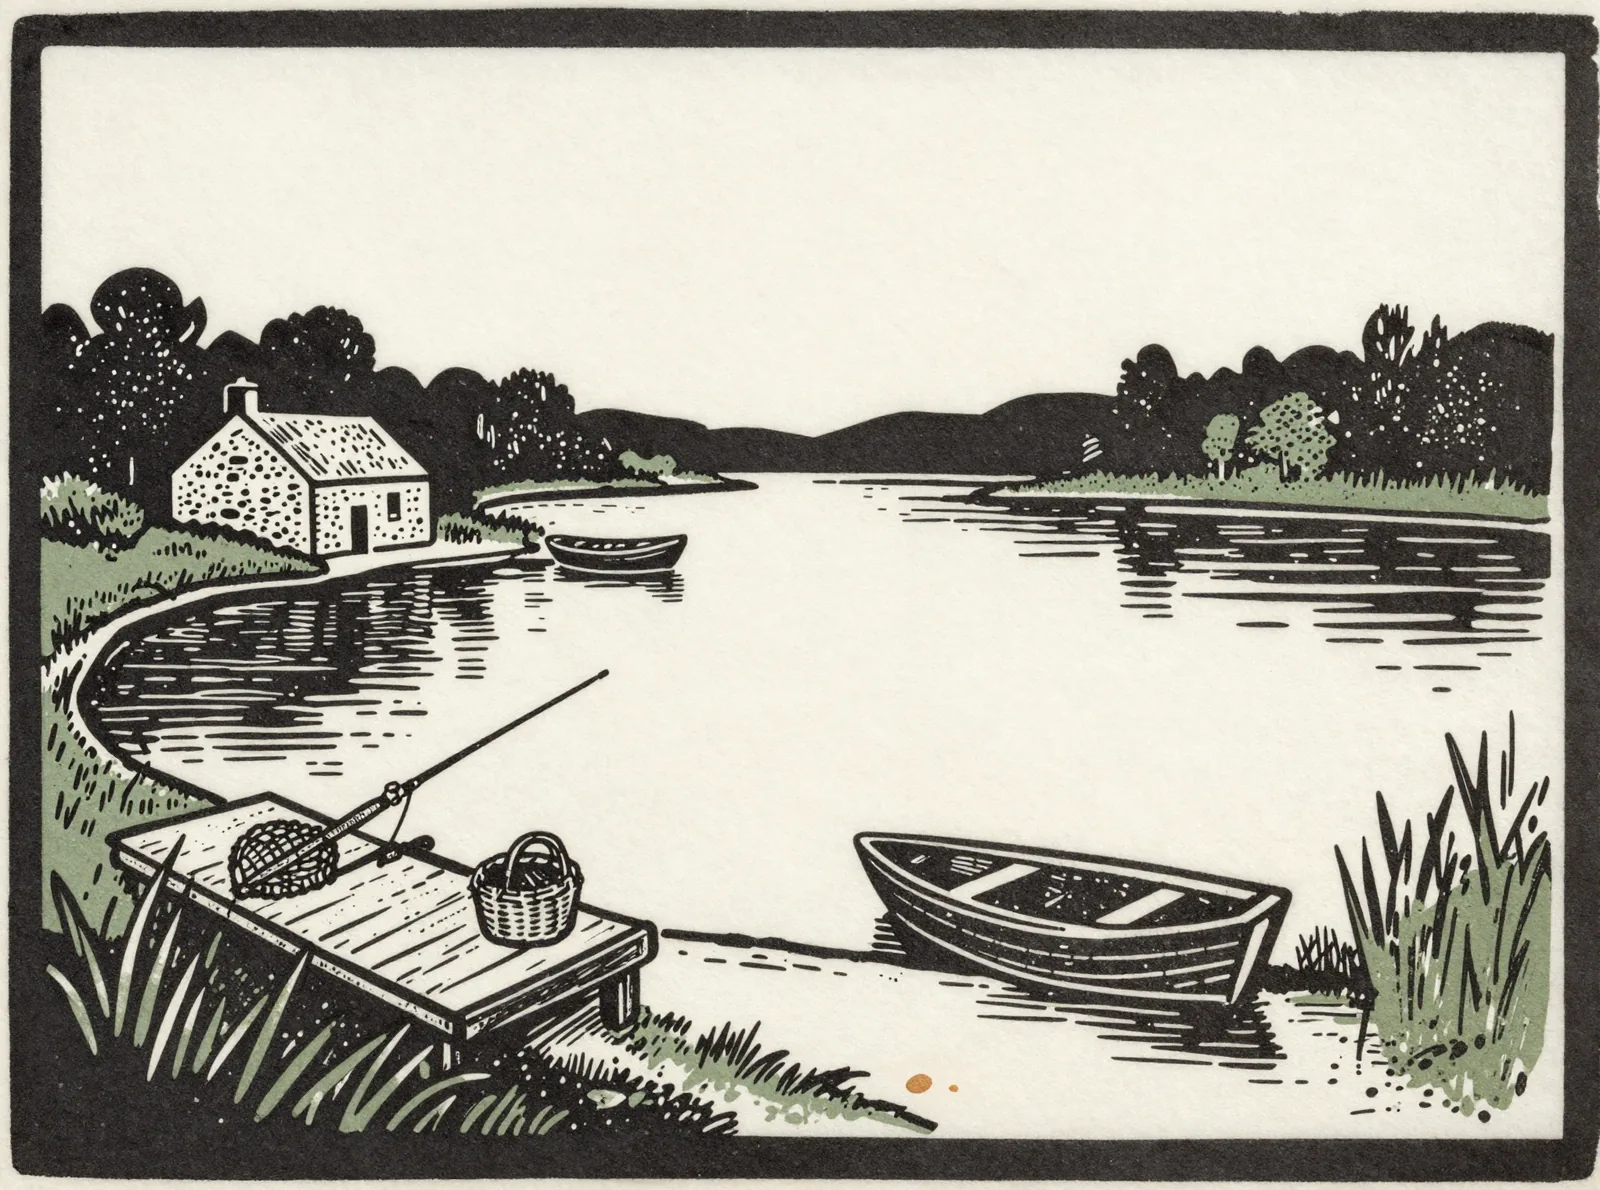
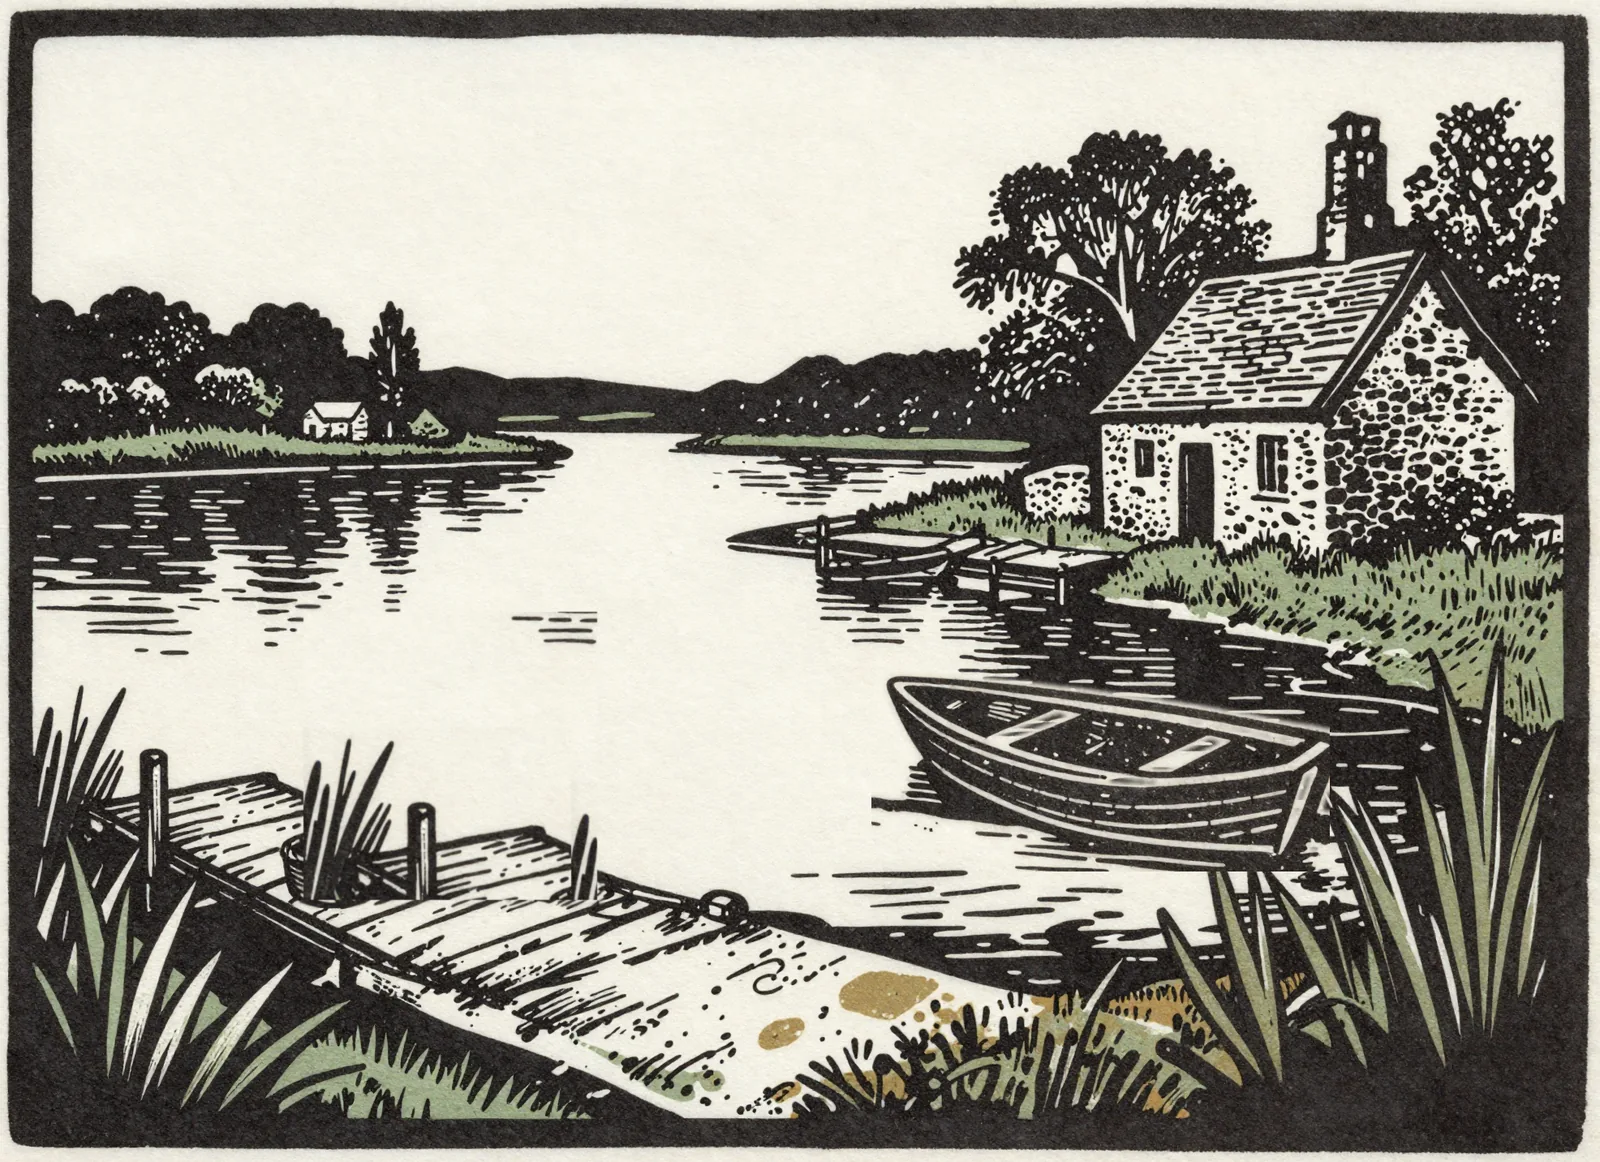
feat(design): the priest in the garden; the lake keeps its composition
Two founder keys. The hill print (a rough-draft leftover whose 'city
on a hill' allusion the copy never explained) retires; in its place,
made as a sacred image on his word: a priest kneeling in the community
garden at dawn, planting with his own hands, spade in the earth, the
parish church behind him. The deed before the word, pictured.

The lakes print returns to the composition he chose; only the boat
moved. Plank-cloning cleared the beached hull and a silhouette-masked
splice sets the sibling roll's boat on the water with a true waterline.

diff --git a/templates/illustrations/_lakes.html b/templates/illustrations/_lakes.html
@@ -1,10 +1,10 @@
 {% comment %}Parish Linocut — original UMI illustration. The first lake — water
-   close to home. A stone cottage at the shore, a jetty with rod and
-   creel, a rowboat on the water, and the lake running on toward more beyond. The lakes
+   close to home. A stone cottage at the shore, the jetty with its creel,
+   a rowboat on the water, and the lake running on toward more beyond. The lakes
    named, finally pictured. Two-plate relief print in the Commons palette
    (stone paper, espresso ink, evergreen + bronze), generated suite
    2026-07-14. Decorative.{% endcomment %}
 {% load static %}
 <img src="{% static 'img/scenes/lakes.webp' %}" data-scene="lakes" alt=""
-     class="{{ class|default:'w-full h-auto' }}" width="1600" height="1190"
+     class="{{ class|default:'w-full h-auto' }}" width="1600" height="1162"
      decoding="async">

diff --git a/templates/illustrations/_priest.html b/templates/illustrations/_priest.html
@@ -1,0 +1,10 @@
+{% comment %}Parish Linocut — original UMI illustration, by the founder's key
+   and made as a sacred image. The deed before the word: a priest kneels in
+   the community garden at dawn, planting a seedling with his own hands, the
+   spade standing in the earth and the parish church behind him. Work as
+   prayer. Two-plate relief print in the Commons palette, generated suite
+   2026-07-14. Decorative.{% endcomment %}
+{% load static %}
+<img src="{% static 'img/scenes/priest.webp' %}" data-scene="priest" alt=""
+     class="{{ class|default:'w-full h-auto' }}" width="1600" height="1180"
+     decoding="async">

diff --git a/templates/pages/beliefs.html b/templates/pages/beliefs.html
@@ -119,7 +119,7 @@
   <section class="umi-section border-b border-[var(--umi-border)]" data-rise>
     <div class="grid grid-cols-1 lg:grid-cols-12 gap-8 items-end mb-2">
       <div class="lg:col-span-7"></div>
-      <div class="lg:col-span-5"><div class="umi-plate p-2">{% include "illustrations/_hill.html" with class="w-full h-auto" %}</div></div>
+      <div class="lg:col-span-5"><div class="umi-plate p-2">{% include "illustrations/_priest.html" with class="w-full h-auto" %}</div></div>
     </div>
     <div class="flex items-center gap-3 flex-wrap">
       <span class="umi-kicker">Where we're going</span>

diff --git a/STATE.md b/STATE.md
@@ -90,7 +90,7 @@
 Do not assume/reintroduce: Stripe billing, Twilio SMS, Chart.js dashboards, blog, scheduled email digests (only an `email_digest` config key), account-deletion flow, **in-app chat** (deliberate — see Protocol section), REST/DRF API (federation speaks its own signed endpoints). (Service worker exists **only** for casework offline capture — not a site-wide PWA.)
 
 ## Repo state / open items
-- **In-flight (`fix/beliefs-heart`, 2026-07-14):** beliefs opening rebuilt in the Our-Story register on his flag ("this whole part sucks… completely different tone") — v3 on his second pass: concrete-first masthead ("This board is a lake, the first of many."), lake defined in one sentence, sayings resolved to two plain clauses, widow/doorway litany scratched entirely ("A conviction you can act on."), realism scan of ALL prints on his flag (spring had reeds-from-rock; exchange had a paw-hand; carrying had a fake AI signature) — exchange re-rolled clean, carrying signature patched out, spring retired unplaced, NEW lakes print (cottage/jetty/first-of-many) matches v3 copy. Product name unified to Reciprocal Aid Network everywhere user-facing (his canon: UMI = infrastructure, Lake 0 at heart); chapter cards de-dashed; header fixed at 390 for the longer name (output.css recompiled). Gate pending, then his standing merge key.
+- **In-flight (`fix/beliefs-heart`, 2026-07-14):** beliefs opening rebuilt in the Our-Story register on his flag ("this whole part sucks… completely different tone") — v3 on his second pass: concrete-first masthead ("This board is a lake, the first of many."), lake defined in one sentence, sayings resolved to two plain clauses, widow/doorway litany scratched entirely ("A conviction you can act on."), realism scan of ALL prints on his flag (spring had reeds-from-rock; exchange had a paw-hand; carrying had a fake AI signature) — exchange re-rolled clean, carrying signature patched out, spring retired unplaced, NEW lakes print (cottage/jetty/first-of-many) matches v3 copy. Product name unified to Reciprocal Aid Network everywhere user-facing (his canon: UMI = infrastructure, Lake 0 at heart); chapter cards de-dashed; header fixed at 390 for the longer name (output.css recompiled). Then his keys kept coming, all executed: lakes print restored to composition A with only the boat moved onto the water (plank-clone + silhouette splice, no re-roll); hill print retired (his flag: rough-draft leftover, context unclear) and replaced by a SACRED priest-in-the-garden print (his key: figure, full effort — 4 rolls, dignified profile pick). Unplaced suite prints now: widow, spring, hill. Gate pending, then his standing merge key.
 - **Consent-voice MERGED `2bbe17a` (his key 2026-07-14):** triage 1–14 all confirmed shipped; consent FILLED state speaks parish (scope tokens → words, Stop sharing, honest footnote); gallery recaptured under real `DEBUG=0` conditions (recipe verified live). Gate was PASS 858.
 - **Demo-polish MERGED `fc7f7e5` (his key 2026-07-14):** the Father Mac pass — `seed_demo_parish` (fictional St. Brigid's, DEBUG-only, 3 tests), 38-screen triage (`docs/demo-triage-2026-07-14.md`), app-wide spoken copy (72 em-dash rewrites + sentence-case sweep), swatch defaults, warm 403 + human 500 + DEBUG env toggle, `docs/demo-walkthrough.md` (8-screen golden path). Gate was PASS 858.
 - **Spoken-flow copy MERGED `ce56d1b` (his standing key 2026-07-14):** mission copy passes the say-it-aloud test — contractions back, comma-chains broken into spoken sentences (impeccable clarify). Say-aloud rule = master formatting rule in brain voice.md. Gate was PASS 855. Branch deleted.

diff --git a/CHANGELOG.md b/CHANGELOG.md
@@ -7,6 +7,9 @@
 
 - **One name everywhere: Reciprocal Aid Network.** The app stopped switching between
   its old names. UMI stays as the infrastructure it's all built on.
+- **The garden has its priest** — where the page says the deed comes first, a priest
+  now kneels in the community garden at dawn, planting with his own hands, the church
+  behind him. Made carefully, as a sacred image.
 - **Pictures checked for truth** — every scene was scanned for realism. The giving-hands
   print was redrawn, a stray artist's scribble came out of the basket scene, and the
   beliefs page now shows the first lake itself: water close to home.
